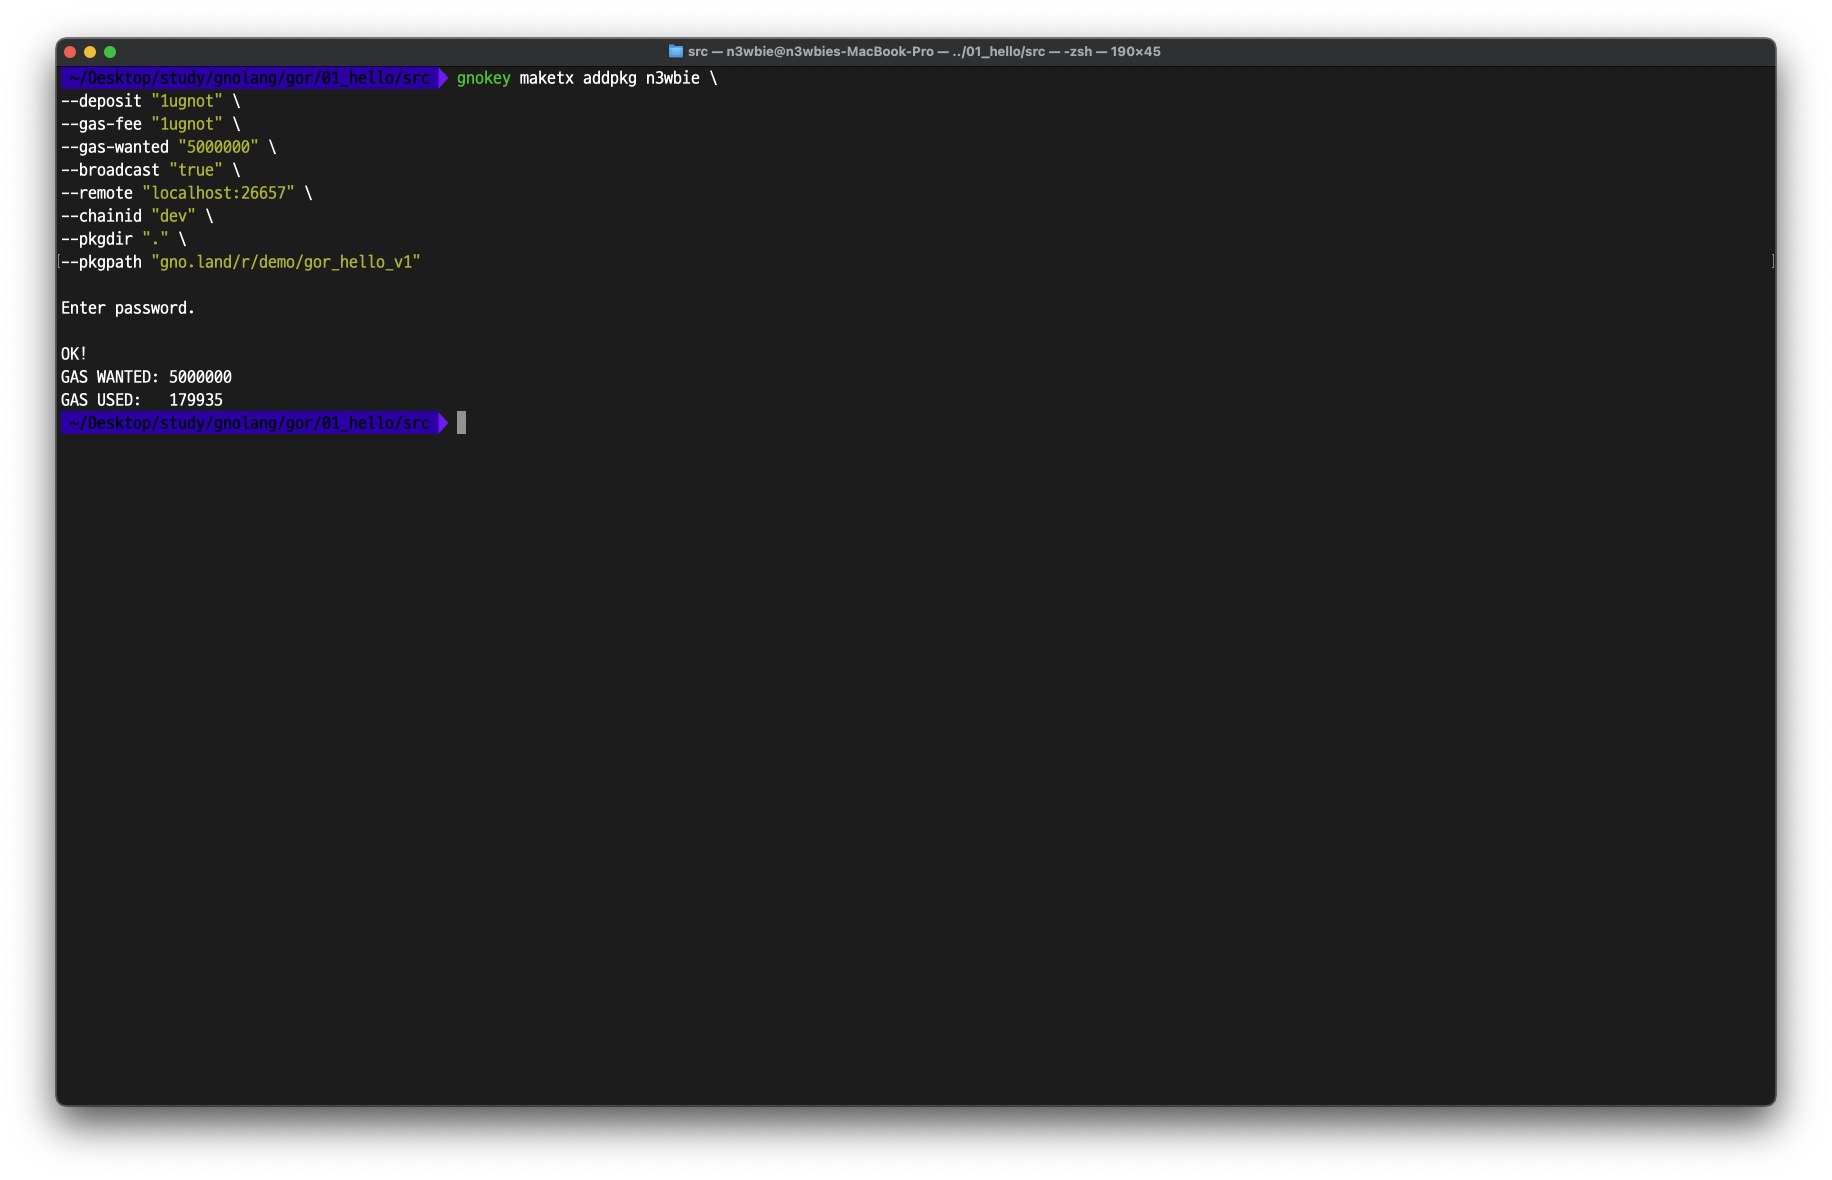
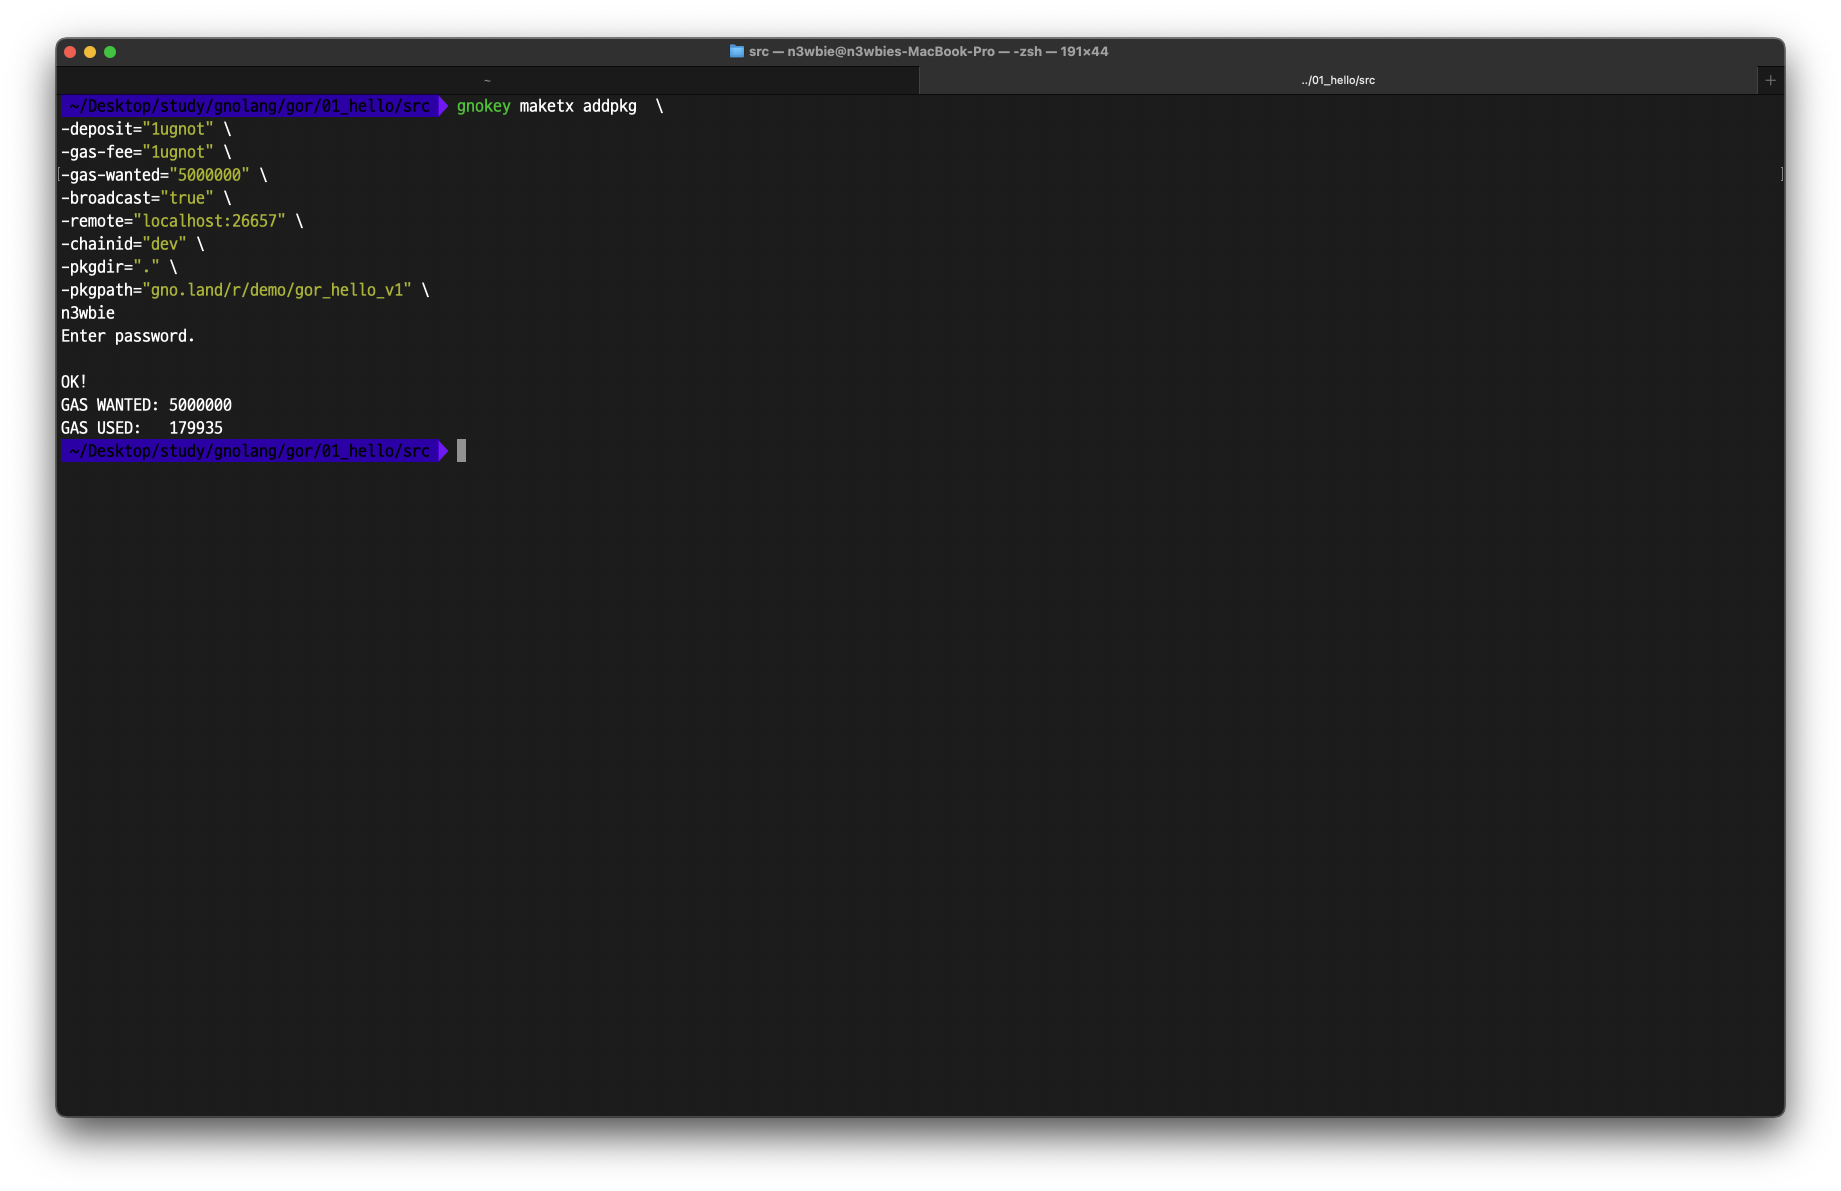
update/cli_refact

Changed region(s): [[0.0311, 0.0305, 0.6534, 0.3966], [0.7156, 0.061, 0.7467, 0.0915]]

diff --git a/docs/cli/gnokey.md b/docs/cli/gnokey.md
@@ -24,16 +24,16 @@ $ gnokey add {KEY_NAME}
 
 | Name        | Type       | Description                                                                            |
 | ----------- | ---------- | -------------------------------------------------------------------------------------- |
+| `account`   | UInt       | Account number for HD derivation.                                                      |
+| `dryrun`    | Boolean    | Performs action, but doesn't add key to local keystore.                                |
+| `index`     | UInt       | Address index number for HD derivation.                                                |
+| `ledger`    | Boolean    | Stores a local reference to a private key on a Ledger device.                          |
 | `multisig`  | String \[] | Constructs and stores a multisig public key (implies `--pubkey`).                      |
-| `threshold` | Int        | K out of N required signatures. For use in conjunction with --multisig (default: `1`). |
+| `nobackup`  | Boolean    | Doesn't print out seed phrase (if others are watching the terminal).                   |
 | `nosort`    | Boolean    | Keys passed to `--multisig` are taken in the order they're supplied.                   |
 | `pubkey`    | String     | Parses a public key in bech32 format and save it to disk.                              |
-| `ledger`    | Boolean    | Stores a local reference to a private key on a Ledger device.                          |
 | `recover`   | Boolean    | Provides seed phrase to recover existing key instead of creating.                      |
-| `nobackup`  | Boolean    | Doesn't print out seed phrase (if others are watching the terminal).                   |
-| `dryrun`    | Boolean    | Performs action, but doesn't add key to local keystore.                                |
-| `account`   | UInt       | Account number for HD derivation.                                                      |
-| `index`     | UInt       | Address index number for HD derivation.                                                |
+| `threshold` | Int        | K out of N required signatures. For use in conjunction with --multisig (default: `1`). |
 
 #### **Example Result**
 
@@ -72,9 +72,9 @@ $ gnokey delete {KEY_NAME}
 
 <figure><img src="../../../.gitbook/assets/2-10.png" alt=""><figcaption></figcaption></figure>
 
-## Export an Encrypted Private Key
+## Export a Private Key (Encrypted & Unencrypted)
 
-Export a private key's encrypted armor using the following command.
+Export a private key's (encrypted or unencrypted) armor using the following command.
 
 ```bash
 $ gnokey export
@@ -86,14 +86,19 @@ $ gnokey export
 | ------------- | ------ | ---------------------------------------------------- |
 | `key`         | String | Name or Bech32 address of the private key            |
 | `output-path` | String | The desired output path for the encrypted armor file |
+| `unsafe`      | Bool   | Export the private key armor as unencrypted          |
 
-#### **Example Result**
+#### **Example Result - Encrypted**
 
-<figure><img src="../../../.gitbook/assets/2-11.png" alt=""><figcaption></figcaption></figure>
+<figure><img src="../../../.gitbook/assets/2-11-enc.png" alt=""><figcaption></figcaption></figure>
 
-## Import an Encrypted Private Key
+#### **Example Result - Unencrypted**
 
-Import a private key's encrypted armor with the following command.
+<figure><img src="../../../.gitbook/assets/2-11-dec.png" alt=""><figcaption></figcaption></figure>
+
+## Import a Private Key (Encrypted & Unencrypted)
+
+Import a private key's (encrypted or unencrypted) armor with the following command.
 
 ```bash
 $ gnokey import
@@ -101,14 +106,19 @@ $ gnokey import
 
 #### **Options**
 
-| Name         | Type   | Description                           |
-| ------------ | ------ | ------------------------------------- |
-| `name`       | String | The name of the private key.          |
-| `armor-path` | String | The path to the encrypted armor file. |
+| Name         | Type   | Description                                 |
+| ------------ | ------ | ------------------------------------------- |
+| `armor-path` | String | The path to the encrypted armor file.       |
+| `name`       | String | The name of the private key.                |
+| `unsafe`     | Bool   | Import the private key armor as unencrypted |
 
-#### **Example Result**
+#### **Example Result - Encrypted**
 
-<figure><img src="../../../.gitbook/assets/2-12.png" alt=""><figcaption></figcaption></figure>
+<figure><img src="../../../.gitbook/assets/2-12-enc.png" alt=""><figcaption></figcaption></figure>
+
+#### **Example Result - Unencrypted**
+
+<figure><img src="../../../.gitbook/assets/2-12-dec.png" alt=""><figcaption></figcaption></figure>
 
 ## Make an ABCI Query
 
@@ -164,13 +174,13 @@ $ gnokey maketx {SUB_COMMAND} {ADDRESS or KeyName}
 This subcommand lets you upload a new package.
 
 ```bash
-$ gnokey maketx addpkg {ADDRESS} \
-    --gas-fee "1ugnot" \
-    --gas-wanted "5000000" \
-    --memo "" \
-    --pkgpath {Registered Realm path} \
-    --pkgdir {Package folder path} \
-    --deposit "" \
+$ gnokey maketx addpkg \
+    -deposit="1ugnot" \
+    -gas-fee="1ugnot" \
+    -gas-wanted="5000000" \
+    -pkgpath={Registered Realm path} \
+    -pkgdir={Package folder path} \
+    {ADDRESS} \
     > unsigned.tx
 ```
 
@@ -202,15 +212,16 @@ This subcommand lets you call a public function.
 
 ```bash
 # Register
-gnokey maketx call {ADDRESS} \
-    --gas-fee "1000000ugnot" \
-    --gas-wanted "2000000" \
-    --pkgpath "gno.land/r/demo/users" \
-    --send "200000000ugnot" \
-    --func "Register" \
-    --args "" \
-    --args {NAME} \
-    --args "" \
+gnokey maketx call \
+    -gas-fee="1ugnot" \
+    -gas-wanted="5000000" \
+    -pkgpath="gno.land/r/demo/users" \
+    -send="200000000ugnot" \
+    -func="Register" \
+    -args="" \
+    -args={NAME} \
+    -args="" \
+    {ADDRESS} \
     > unsigned.tx
 ```
 
@@ -242,12 +253,12 @@ gnokey maketx call {ADDRESS} \
 This subcommand lets you send a native currency to an address.
 
 ```bash
-gnokey maketx send {ADDRESS} \
-    --gas-fee "1ugnot" \
-    --gas-wanted "2000000" \
-    --memo "" \
-    --send {SEND_AMOUNT} \
-    --to {TO_ADDRESS} \
+gnokey maketx send \
+    -gas-fee="1ugnot" \
+    -gas-wanted="5000000" \
+    -send={SEND_AMOUNT} \
+    -to={TO_ADDRESS} \
+    {ADDRESS} \
     > unsigned.tx
 ```
 

diff --git a/tutorials/start-writing-a-realm.md b/tutorials/start-writing-a-realm.md
@@ -4,8 +4,8 @@ This tutorial will provide you with a step-by-step guide on how to set up a loca
 
 ## Prerequisites
 
-* [Initial Setup](../docs/environment-setup/initial-setup.md)
-* [Build the Local Testnet](../docs/environment-setup/build-the-local-testnet.md)
+- [Initial Setup](../docs/environment-setup/initial-setup.md)
+- [Build the Local Testnet](../docs/environment-setup/build-the-local-testnet.md)
 
 ## Locally Building a Realm
 
@@ -48,8 +48,6 @@ func Test(t *testing.T) {
 }
 ```
 
-
-
 ### Testing with `gnodev`
 
 Due to the immutable nature of blockchain, it's a good practice to run tests on `gnodev` prior to deploying your realm on the testnet.&#x20;
@@ -79,7 +77,7 @@ $ gnodev
 Test your realm using the following command:
 
 ```bash
-$ gnodev test ./ --verbose --root-dir ~/gno
+$ gnodev test -verbose=true -root-dir ~/gno ./
 ```
 
 > Note: `./` above assumes you are operating your terminal out of the same directory as your `contract.gno` and `contract_test.gno` files, if not adjust the path accordingly.
@@ -90,7 +88,7 @@ We can see that the test has failed. Try to find out what went wrong with our te
 
 <figure><img src="../.gitbook/assets/11_gnodev_test_ok.png" alt=""><figcaption></figcaption></figure>
 
-Once you fix the errors and re-run the test, you can confirm that the results are now displayed as  `PASS`, indicating that your realm is ready to be deployed on the blockchain.
+Once you fix the errors and re-run the test, you can confirm that the results are now displayed as `PASS`, indicating that your realm is ready to be deployed on the blockchain.
 
 ### Deploying Locally
 
@@ -109,7 +107,7 @@ $ make gnokey
 Then, import the account with the following command (remember to use the seed phrase we shared above):
 
 ```bash
-$ gnokey add {account_name} --recover
+$ gnokey add -recover {account_name}
 ```
 
 <figure><img src="../.gitbook/assets/12_gnokey_build_recover.png" alt=""><figcaption></figcaption></figure>
@@ -127,16 +125,19 @@ $ gnokey query "auth/accounts/{account_address}"
 Deploy the realm on your local network with the following command:
 
 ```bash
-gnokey maketx addpkg test \
---deposit "1ugnot" \
---gas-fee "1ugnot" \
---gas-wanted "5000000" \
---broadcast "true" \
---pkgdir "." \ 
---pkgpath "gno.land/r/demo/tutorial_test"
+gnokey maketx addpkg  \
+-deposit="1ugnot" \
+-gas-fee="1ugnot" \
+-gas-wanted="5000000" \
+-broadcast="true" \
+-remote="localhost:26657" \
+-chainid="dev" \
+-pkgdir="." \
+-pkgpath="gno.land/r/demo/tutorial_test" \
+test
 ```
 
-> Note: `test` above is the account name we used for the recovered account, `--pkgdir` is where the contract to deploy is locally (in our case `~/demo` where the above code assumes the terminal is executing from), `--pkgpath` is the deploy-to location.
+> Note: `test` above is the account name we used for the recovered account, `--pkgdir` is where the contract to deploy is locally (in our case `/Users/n3wbie/Desktop/study/gnolang/gor/77_demo/src` where the above code assumes the terminal is executing from), `--pkgpath` is the deploy-to location.
 
 <figure><img src="../.gitbook/assets/14_gnokey_addpkg.png" alt=""><figcaption></figcaption></figure>
 
@@ -148,7 +149,7 @@ Once you successfully deploy the realm, visit `localhost:8888/{pkgpath}?help` on
 
 There are two ways to call your deployed function using `gnokey`.
 
-#### Method 1. `gnokey make tx call`
+#### Method 1. `gnokey maketx call`
 
 This method will execute a transaction to call a function in a realm. Note that this method is used for state-changing functions as it consumes gas.
 
@@ -170,13 +171,13 @@ Create a new account with the following command:
 
 ```bash
 $ gnokey add {account_name} # creates an address with a new seed phrase
-$ gnokey add {account_name} --recover --index {index} # creates an address using the existing seed phrase
+$ gnokey add -recover -index {index} {account_name}  # creates an address using the existing seed phrase
 ```
 
 Then, check its balances on the testnet with the following command:
 
 ```bash
-$ gnokey query bank/balances/{your_address} --remote "http://test3.gno.land:36657"
+$ gnokey query -remote="http://test3.gno.land:36657" bank/balances/{your_address}
 ```
 
 <figure><img src="../.gitbook/assets/18_gnokey_new_addr_test3_balance.png" alt=""><figcaption></figcaption></figure>
@@ -205,13 +206,13 @@ We can see that you now have 310 Testnet GNOTS in your wallet.
 
 We're going to be using the same commands that we used to deploy our realm in a local environment. However, we need to configure two options to set our target network to the Testnet.&#x20;
 
-* `remote` => `"http://test3.gno.land:36657"`
-* `chainid` => `"test3"`
+- `remote` => `"http://test3.gno.land:36657"`
+- `chainid` => `"test3"`
 
 <figure><img src="../.gitbook/assets/21_test3_deploy.png" alt=""><figcaption></figcaption></figure>
 
-#### Step 5. [Check on Gnoscan](https://gnoscan.io/accounts/g1354kqcxeyydngzjrgfr5h0llepmhtuc9m92hhr)
+#### Step 5. [Check on Gnoscan](https://gnoscan.io/accounts/g1k266pn5usuwhjqah3kn5c5668qsnwspy9p0v8s)
 
 Confirm that your realm has been published by checking your transaction history on Testnet 3 on [Gnoscan](https://gnoscan.io/).
 
-<figure><img src="../.gitbook/assets/21_gnoscan.png" alt=""><figcaption></figcaption></figure>
+<figure><img src="../.gitbook/assets/23_gnoscan.png" alt=""><figcaption></figcaption></figure>

diff --git a/tutorials/interact-with-gnoland.md b/tutorials/interact-with-gnoland.md
@@ -4,7 +4,7 @@ This tutorial will teach you how to interact with the Gnoland blockchain by crea
 
 ## Prerequisites
 
-* [Initial Setup](../docs/environment-setup/initial-setup.md)
+- [Initial Setup](../docs/environment-setup/initial-setup.md)
 
 ## Create an Account
 
@@ -13,7 +13,7 @@ In order to interact with Gnoland, you need an account that you will use to sign
 ```bash
 $ gnokey generate # create a new seed phrase (mnemonic)
 
-$ gnokey add {your_account_name} --recover  # registers a key with the name set as the value you put in {your_account_name} with a seed phrase
+$ gnokey add -recover {your_account_name} # registers a key with the name set as the value you put in {your_account_name} with a seed phrase
 
 $ gnokey list # check the list of keys
 ```
@@ -21,18 +21,19 @@ $ gnokey list # check the list of keys
 ## Register As a User
 
 ```bash
-$ gnokey maketx call my-account \
-    --gas-fee "1000000ugnot" \
-    --gas-wanted "2000000" \
-    --pkgpath "gno.land/r/demo/users" \
-    --broadcast \
-    --send "200000000ugnot" \
-    --func "Register" \
-    --args "" \
-    --args "my_account" \ # (must be at least 6 characters, lowercase alphanumeric with underscore)
-    --args "" \
-    --chainid "test3" \
-    --remote "test3.gno.land:36657"
+$ gnokey maketx call \
+    -gas-fee="1ugnot" \
+    -gas-wanted="5000000" \
+    -broadcast="true" \
+    -remote="test3.gno.land:36657" \
+    -chainid="test3" \
+    -pkgpath="gno.land/r/demo/users" \
+    -func="Register" \
+    -args="" \
+    -args="my_account" \ # (must be at least 6 characters, lowercase alphanumeric with underscore)
+    -args="" \
+    -send="200000000ugnot" \
+    my-account
 
 # username: must be at least 6 characters, lowercase alphanumeric with underscore
 ```
@@ -43,14 +44,14 @@ $ gnokey maketx call my-account \
 
 ```bash
 # Get account information
-$ gnokey query auth/accounts/{address} --remote "test3.gno.land:36657"
+$ gnokey query -remote="test3.gno.land:36657" "auth/accounts/{address}"
 
 # Get account balance
-$ gnokey query bank/balances/{address} --remote "test3.gno.land:36657"
+$ gnokey query -remote="test3.gno.land:36657" "bank/balances/{address}"
 
 # Get /r/demo/boards user information
-$ gnokey query vm/qrender --data "gno.land/r/demo/users
-my_account" --remote "test3.gno.land:36657"
+$ gnokey query -remote="test3.gno.land:36657" -data "gno.land/r/demo/users
+my_account" "vm/qrender"
 ```
 
 ## Send Tokens
@@ -59,15 +60,15 @@ The following command will send 1,000,000 ugnot (= 1 GNOT) to the address specif
 
 ```bash
 # Creates and broadcast a token transfer transaction
-$ gnokey maketx send my-account \
-    --gas-fee "1ugnot" \
-    --gas-wanted "2000000" \
-    --memo "" \
-    --broadcast \
-    --send "1000000ugnot" \
-    --to "{address}" \
-    --chainid "test3" \
-    --remote "test3.gno.land:36657"
+$ gnokey maketx send \
+    -gas-fee="1ugnot" \
+    -gas-wanted="5000000" \
+    -broadcast="true" \
+    -remote="test3.gno.land:36657" \
+    -chainid="test3" \
+    -to="{address}" \ # g1jg8mtutu9khhfwc4nxmuhcpftf0pajdhfvsqf5
+    -send="{amount}{denom}" \ # 1234ugnot
+    my-account
 ```
 
 ## Create a Board
@@ -76,14 +77,14 @@ Try creating a board called `my_board` on the `gno.land/r/demo/boards` realm wit
 
 ```bash
 # Calls the CreateBoard function of gno.land/r/demo/boards
-$ gnokey maketx call my-account \
-    --gas-fee "1000000ugnot" \
-    --gas-wanted "10000000" \
-    --broadcast \
-    --pkgpath "gno.land/r/demo/boards" \
-    --send "" \
-    --func "CreateBoard" \
-    --args "my_board" \
-    --chainid "test3" \
-    --remote "test3.gno.land:36657"
+$ gnokey maketx call \
+    -gas-fee="1ugnot" \
+    -gas-wanted="5000000" \
+    -broadcast="true" \
+    -remote "test3.gno.land:36657" \
+    -chainid="test3" \
+    -pkgpath="gno.land/r/demo/boards" \
+    -func="CreateBoard" \
+    -args="my_board" \
+    my-account
 ```

diff --git a/docs/building-a-realm/realm-examples/foo.gno.md b/docs/building-a-realm/realm-examples/foo.gno.md
@@ -295,7 +295,7 @@ func assertGRC20Balance(t *testing.T, addr users.AddressOrName, expectedBal uint
 }
 ```
 
-> **Tip:** the `boards` realm enables users to [register addresses with usernames](https://onbloc.gitbook.io/gnoland-developer-portal/tutorials/cli/cli-examples#register-as-a-user) on  `/r/demo/boards` for simplicity and convenience.&#x20;
+> **Tip:** the `users` realm enables users to register addresses with usernames([example](https://onbloc.gitbook.io/gnoland-developer-portal/tutorials/interact-with-gnoland#register-as-a-user)) on  `/r/demo/users` for simplicity and convenience.&#x20;
 
 
 
